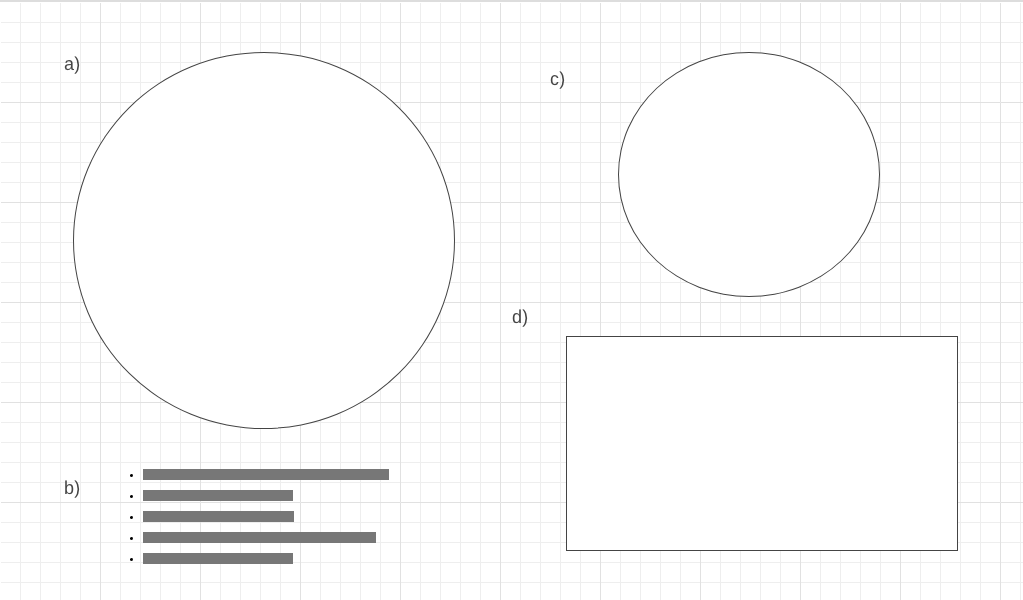
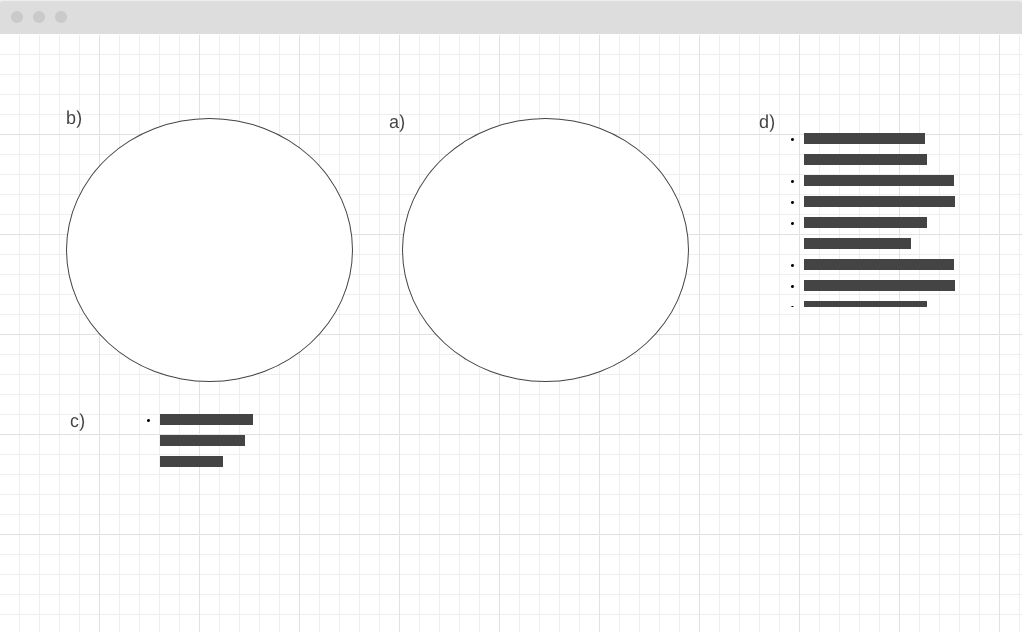
Updated README

diff --git a/README.md b/README.md
@@ -1,18 +1,19 @@
-## Best Clash Royale Players: A Global Look
+## Best Clash Royale Players: Data Visualization
 
 ### Background and Overview
 
   Clash Royale is a popular mobile game made by Supercell. As one of the top
   games from the Google Play Store, it is enjoyed by many and is even played
-  competitively, featuring global rankings and pro tournaments. Due to its 
-  competitive nature, data featuring statistics of gameplay is important to 
-  many players. Best Clash Royale Players features the best players around the world along with their main game statistics.
+  competitively: featuring global rankings and pro tournaments. Due to its 
+  competitive nature, statistics of gameplay is important to many players. 
+  Best Clash Royale Players features the best players around the world along 
+  with some of their game stats.
 
 ### Functionality and MVP Features
   Users will be able to:
   * View the locations of the top ranked players
-  * Toggle between win rates of various modes of competitive play
-  * See each player's trophy progression in a graph
+  * Toggle between different sets of data
+  * See each player's best trophy record.
 
 ### Data & APIs
 
@@ -20,10 +21,10 @@
 
 ### Wireframe
 
-  This visualization consists of a single screen containing a spinning globe (a), interactive pie charts (c), and a line graph (d).
+  This visualization consists of a single screen containing a spinning globe (a) and interactive pie charts (b).
   ![Clash Royale wireframe](assets/wireframe.png)
 
-  The globe allows the user to visualize the locations of the top ranked players. The list depicted by (b) will show the list of the top ranked players. The user will be able to toggle the location off of the globe by checking the users off and on. The interactive pie charts will show the win rates of each player for different game modes when clicked and the line graph will show the player's trophy progression.
+  The globe allows the user to visualize the locations of the top ranked players. The pie charts can be toggled to see the different stats of each player. The text (c) under each pie chart will display the actual number data from the pie chart along with the player's best trophy score. The text on the far right (d) lists more detailed instructions to help the user navigate through the page.
 
 ### Architecture and Technologies
   Best Clash Royale Players is built with: 
@@ -45,7 +46,6 @@
   Day 3: 
   * Set up pie charts for win rates for various game modes
   * Set up toggle feature or some other UI so switch between graphs
-  * Set up line graph to show trophy progression for each player
 
   Day 4:
   * Clean up features and make page visually appealing
